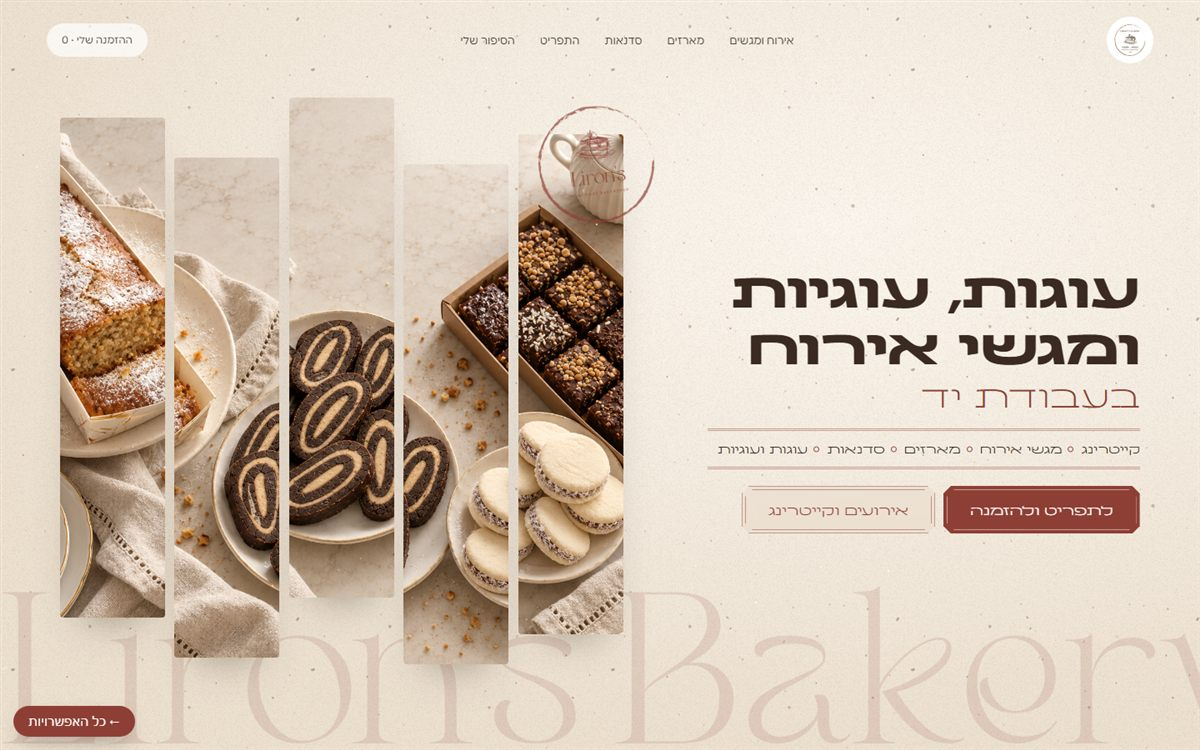
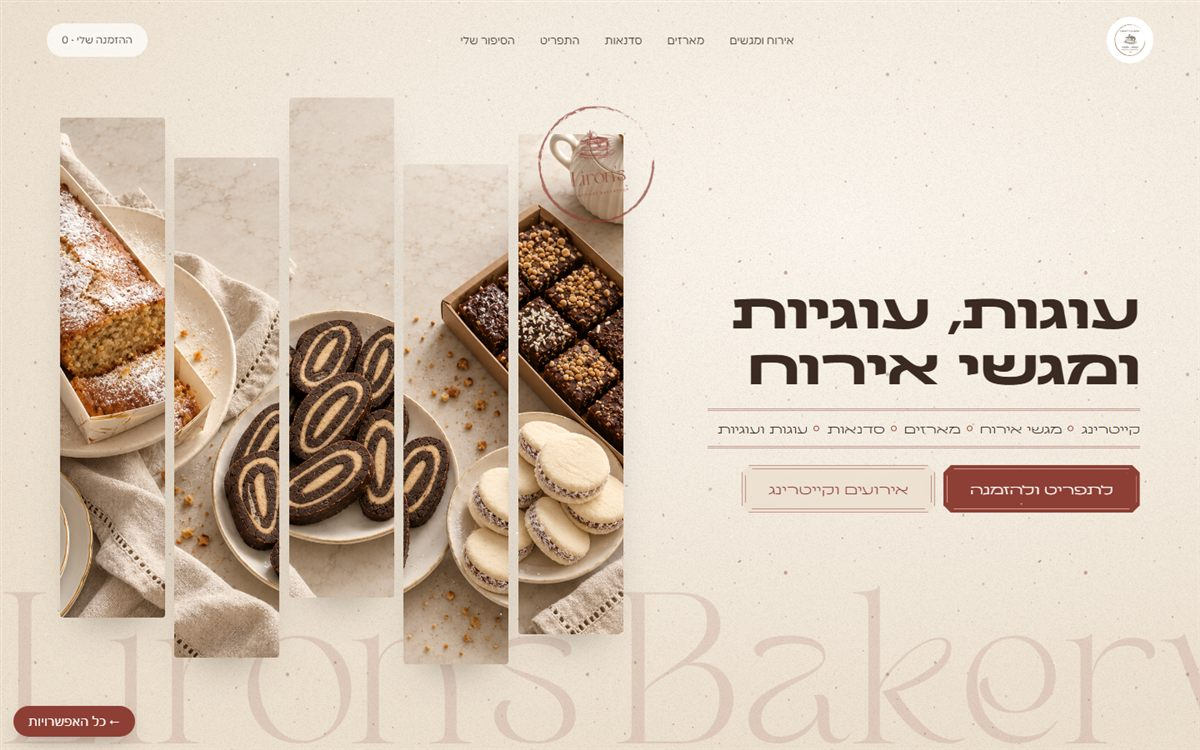
כותרת בלי 'בעבודת יד', צילומי מסך מעודכנים

Changed region(s): [[0.5858, 0.368, 0.9558, 0.736]]

diff --git a/h3.html b/h3.html
@@ -162,7 +162,7 @@ a{color:inherit;text-decoration:none}
       <nav class="nav"><img class="logo" src="img/old-site/logo.png" alt="לירונ'ס"><div class="links"><a>אירוח ומגשים</a><a>מארזים</a><a>סדנאות</a><a>התפריט</a><a>הסיפור שלי</a></div><a class="cart">ההזמנה שלי · 0</a><button class="burger" aria-label="תפריט"><span></span><span></span><span></span></button></nav>
       <img class="stamp" id="stamp" alt="" aria-hidden="true">
       <div class="copy">
-        <h1 class="h2t" id="headline"><b>עוגות, עוגיות ומגשי אירוח</b> <i>בעבודת יד</i></h1>
+        <h1 class="h2t" id="headline"><b>עוגות, עוגיות ומגשי אירוח</b></h1>
         <nav class="svcrow" aria-label="השירותים"><a>קייטרינג לאירועים</a><a>מגשי אירוח</a><a>מארזי חג ומתנה</a><a>סדנאות אפייה</a><a>עוגות ועוגיות</a></nav>
         <div class="ctas"><a class="btn p">לתפריט ולהזמנה</a><a class="btn s">אירועים וקייטרינג</a></div>
       </div>

diff --git a/m2.html b/m2.html
@@ -187,7 +187,7 @@ a{color:inherit;text-decoration:none;cursor:pointer}
     <div class="copy">
       <div class="leaf" aria-hidden="true"></div>
       <div class="script">Handmade</div>
-      <h1 class="h2t"><b>עוגות, עוגיות<br>ומגשי אירוח</b><i>בעבודת יד</i></h1>
+      <h1 class="h2t"><b>עוגות, עוגיות<br>ומגשי אירוח</b></h1>
       <nav class="svcrow" aria-label="השירותים"><a>קייטרינג</a><a>מגשי אירוח</a><a>מארזים</a><a>סדנאות</a><a>עוגות ועוגיות</a></nav>
       <div class="ctas"><a class="btn p">לתפריט ולהזמנה</a><a class="btn s">אירועים וקייטרינג</a></div>
     </div>

diff --git a/g1.html b/g1.html
@@ -185,7 +185,7 @@ a{color:inherit;text-decoration:none;cursor:pointer}
   <div class="stage">
     <div class="bigname">Liron's Bakery</div>
     <div class="copy">
-      <h1 class="h2t"><b>עוגות, עוגיות<br>ומגשי אירוח</b><i>בעבודת יד</i></h1>
+      <h1 class="h2t"><b>עוגות, עוגיות<br>ומגשי אירוח</b></h1>
       <nav class="svcrow" aria-label="השירותים"><a>קייטרינג</a><a>מגשי אירוח</a><a>מארזים</a><a>סדנאות</a><a>עוגות ועוגיות</a></nav>
       <div class="ctas"><a class="btn p">לתפריט ולהזמנה</a><a class="btn s">אירועים וקייטרינג</a></div>
     </div>

diff --git a/m3.html b/m3.html
@@ -187,7 +187,7 @@ a{color:inherit;text-decoration:none;cursor:pointer}
     <div class="veil"></div>
     <div class="copy">
       <div class="bn">Liron's Bakery</div>
-      <h1 class="h2t"><b>עוגות, עוגיות ומגשי אירוח</b> <i>בעבודת יד</i></h1>
+      <h1 class="h2t"><b>עוגות, עוגיות ומגשי אירוח</b></h1>
       <div class="ctas"><a class="btn p">לתפריט ולהזמנה</a><a class="btn s">אירועים וקייטרינג</a></div>
     </div>
     <img class="stamp" data-stamp alt="" aria-hidden="true">

diff --git a/h1.html b/h1.html
@@ -192,7 +192,7 @@ a{color:inherit;text-decoration:none;cursor:pointer}
     </div>
     <img class="stamp" data-stamp alt="" aria-hidden="true">
     <div class="copy">
-      <h1 class="h2t"><b>עוגות, עוגיות<br>ומגשי אירוח</b><i>בעבודת יד</i></h1>
+      <h1 class="h2t"><b>עוגות, עוגיות<br>ומגשי אירוח</b></h1>
       <div class="ctas"><a class="btn p">לתפריט ולהזמנה</a><a class="btn s">אירועים וקייטרינג</a></div>
     </div>
   </div>
